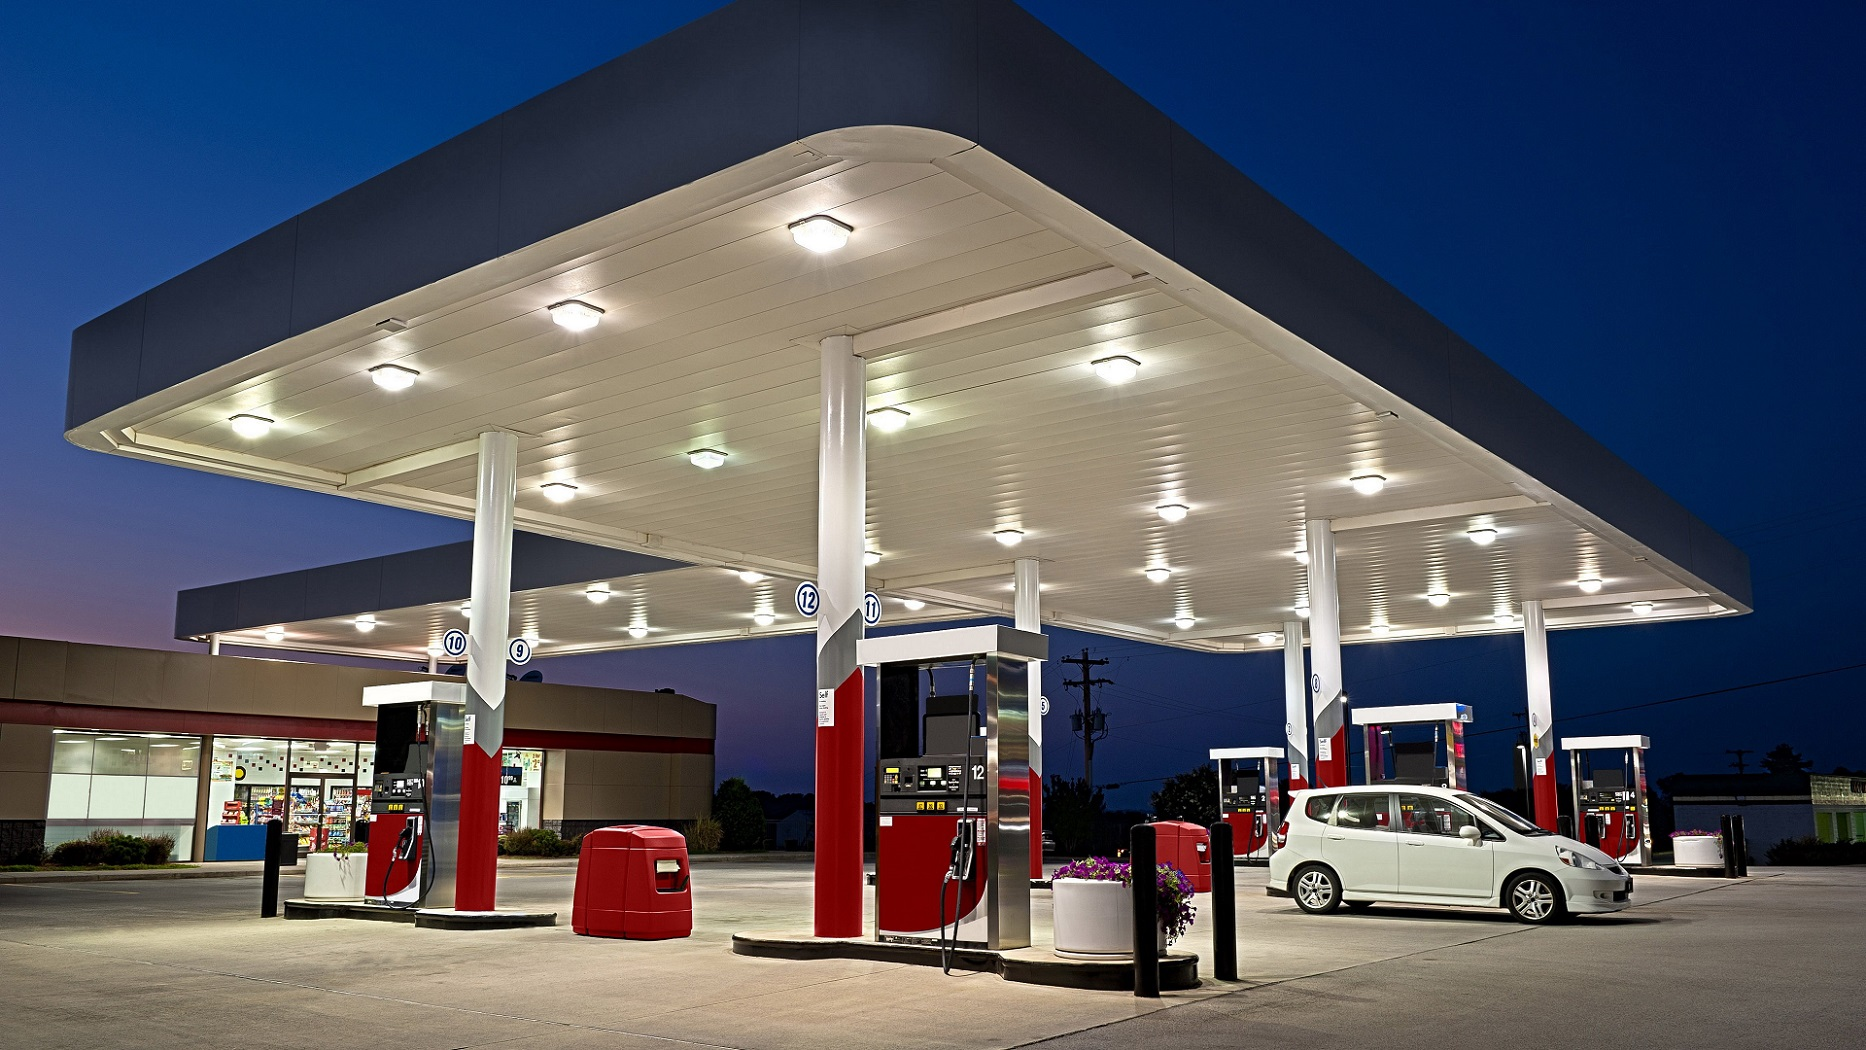
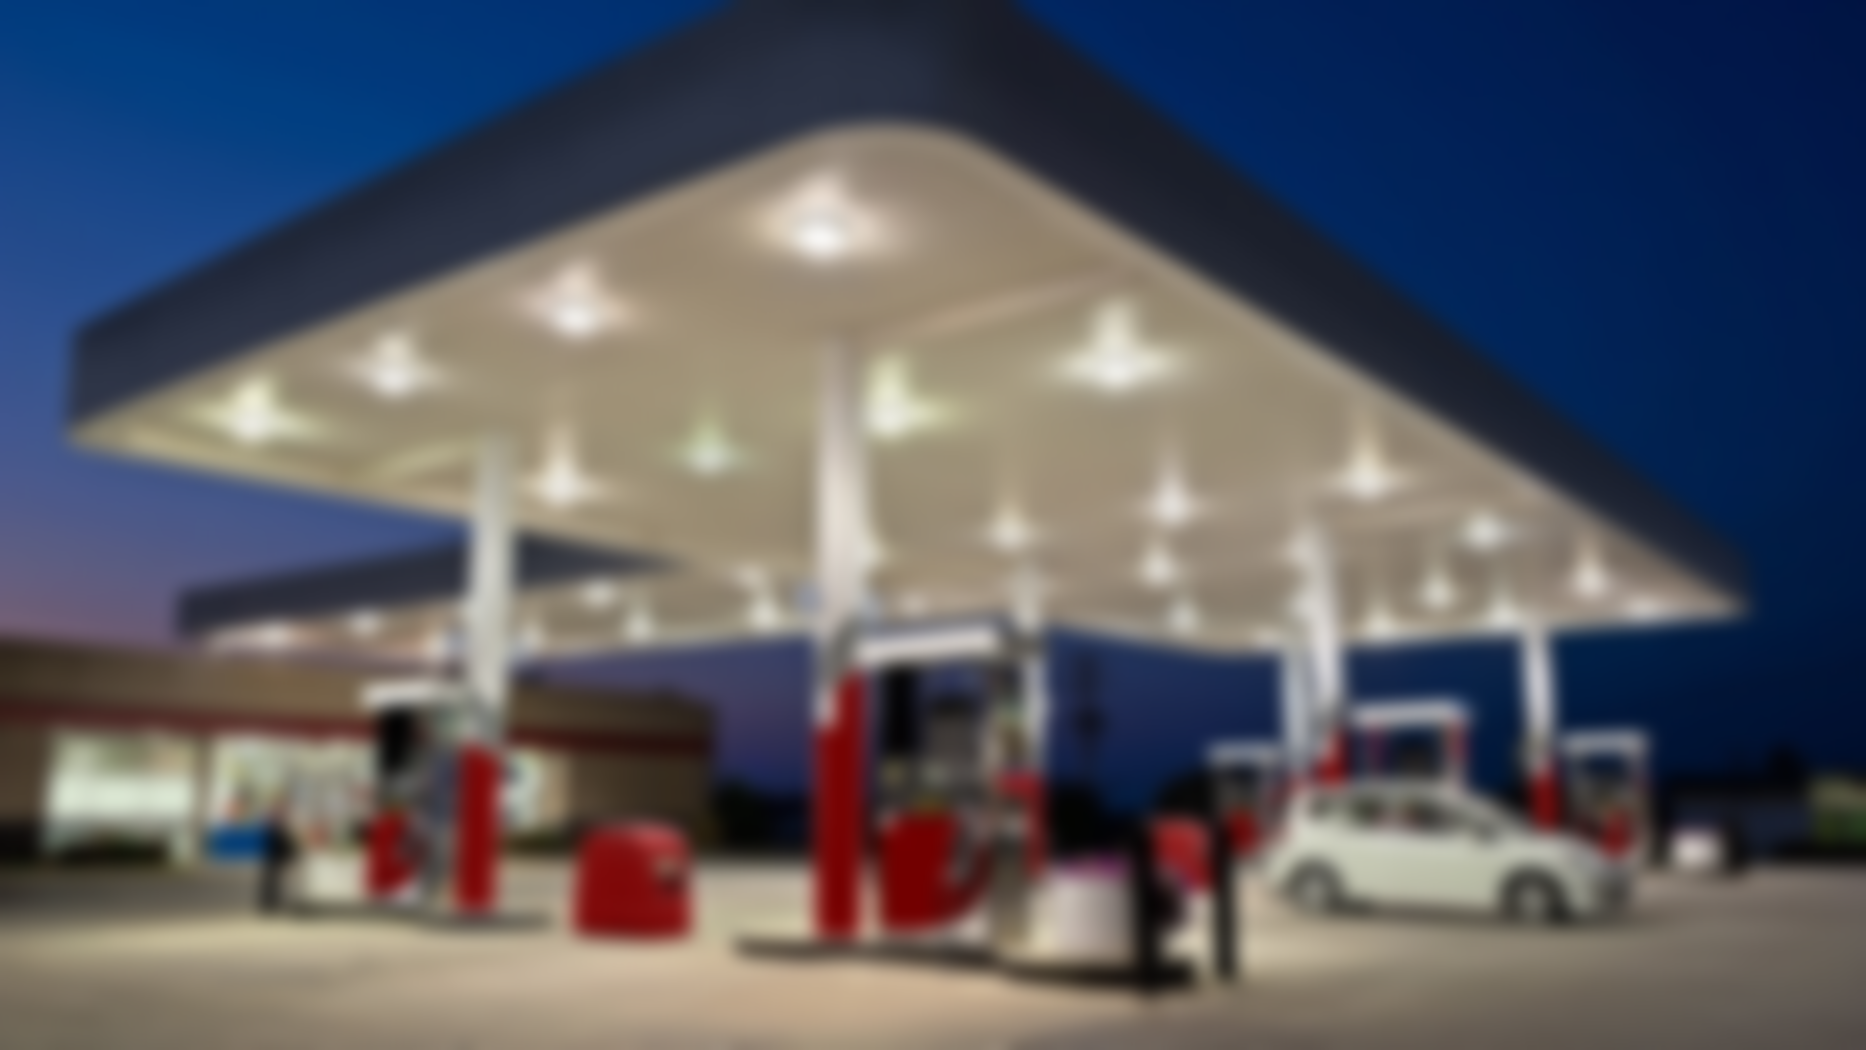
Changed GUI for Login and Register pages

diff --git a/LoginInMVC4WithEF/Content/bootstrap.css b/LoginInMVC4WithEF/Content/bootstrap.css
@@ -10143,6 +10143,23 @@ a.text-dark:hover, a.text-dark:focus {
   visibility: hidden !important;
 }
 
+.jumbotron-background {
+    object-fit: cover;
+    font-family: 'object-fit: cover;';
+    position: absolute;
+    top: 0;
+    z-index: 1;
+    width: 100%;
+    height: 100%;
+    opacity: 0.5;
+}
+
+img.blur {
+    -webkit-filter: blur(4px);
+    filter: blur(4px);
+    filter: progid:DXImageTransform.Microsoft.Blur(PixelRadius='4');
+}
+
 @media print {
   *,
   *::before,

diff --git a/LoginInMVC4WithEF/Content/Site.css b/LoginInMVC4WithEF/Content/Site.css
@@ -1,9 +1,7 @@
 body {
     font-size: .85em;
-    font-family: "Segoe UI", Verdana, Helvetica, Sans-Serif;
-    
     background-image: url('images/Capture.png');
-   
+    font-family: "Segoe UI", Verdana, Helvetica, Sans-Serif;
     width: 100%;
     height: 200%;
     zoom: 110%;
